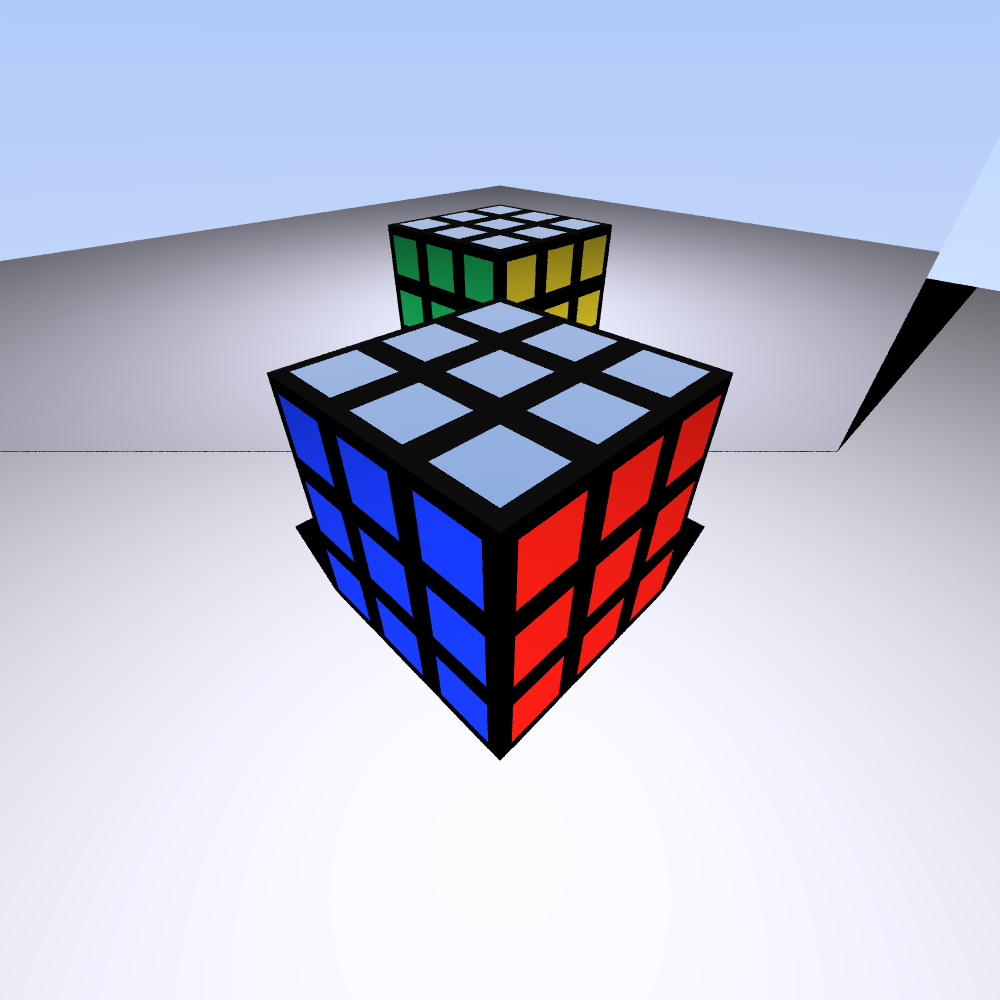
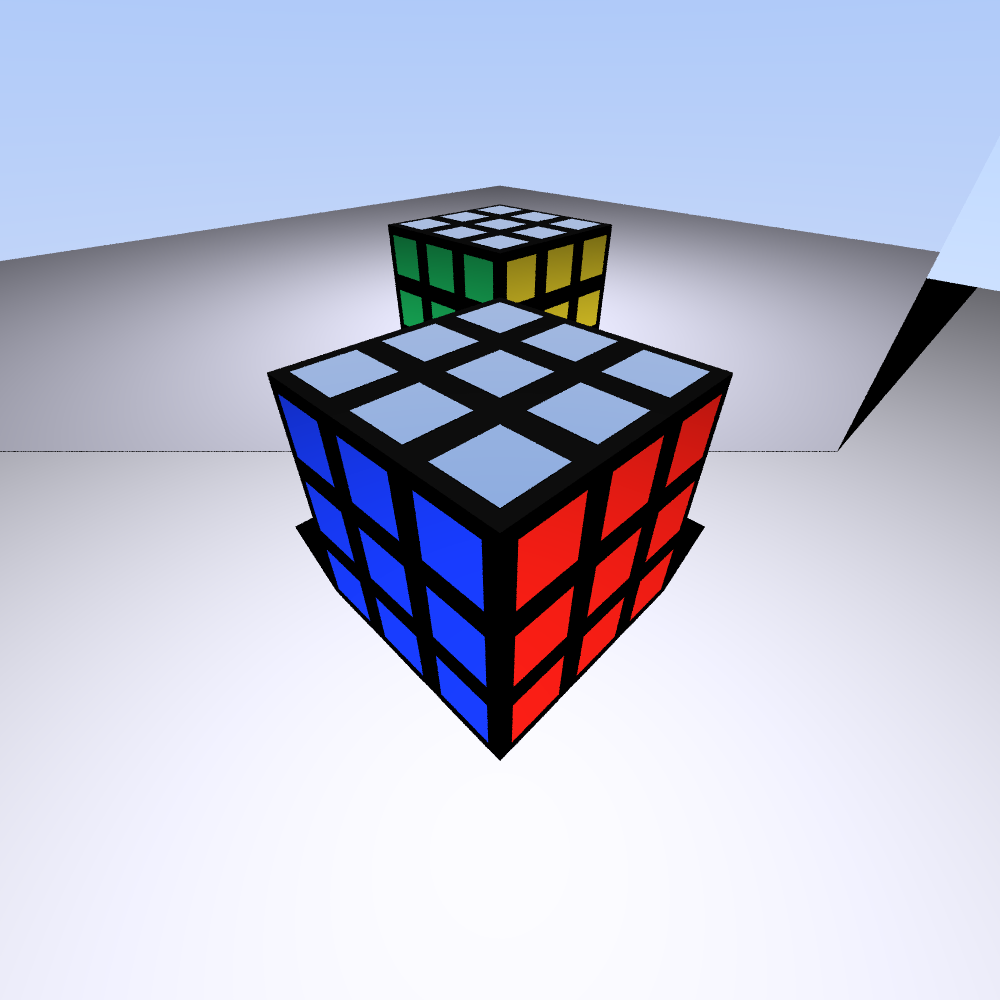
added perspective camera

diff --git a/OpenGL/glfwExample.cpp b/OpenGL/glfwExample.cpp
@@ -97,6 +97,15 @@ int main(int argc, char* argv[]) // Host = CPU, Device = GPU
     float near = 5.0f;
     float far = -5.0f;
 
+        // 1. Perspective Setup
+    float fov = glm::radians(45.0f);
+    float height = top - bottom;
+    float width = right - left;
+    float aspect = width / height;
+
+    glm::mat4 M_perspective = glm::perspective(fov, aspect, near, far);
+
+
     glm::mat4 M_ortho = glm::ortho(-halfWidth, halfWidth, -halfHeight, halfHeight, near, far);
 
     GLuint m_triangleVBO[1];
@@ -155,7 +164,7 @@ int main(int argc, char* argv[]) // Host = CPU, Device = GPU
     GLint projMatrixID = shader.createUniform("projMatrix");
     GLint viewMatrixID = shader.createUniform("viewMatrix");
 
-    glm::vec3 m_pos(0,0,0), m_viewDir(0,0,-1);
+    glm::vec3 m_pos(0,0,5), m_viewDir(0,0,-1);
     glm::vec3 m_U(1,0,0), m_V(0,1,0), m_W(0,0,1);
 
     double timeDiff = 0.0, startFrameTime = 0.0, endFrameTime = 0.0;
@@ -177,8 +186,13 @@ int main(int argc, char* argv[]) // Host = CPU, Device = GPU
         shader.activate();
 
         // copy from the host to the device the view matrix and the projection matrix
-        glUniformMatrix4fv(projMatrixID, 1, GL_FALSE, glm::value_ptr( M_ortho ));
+        // glUniformMatrix4fv(projMatrixID, 1, GL_FALSE, glm::value_ptr( M_ortho ));
         glUniformMatrix4fv(viewMatrixID, 1, GL_FALSE, glm::value_ptr( M_view ));
+
+        glUniformMatrix4fv(projMatrixID, 1, GL_FALSE, glm::value_ptr( M_perspective ));
+
+
+        
 
         glBindVertexArray(m_VAO);
         glDrawArrays(GL_TRIANGLES, 0, 3);
